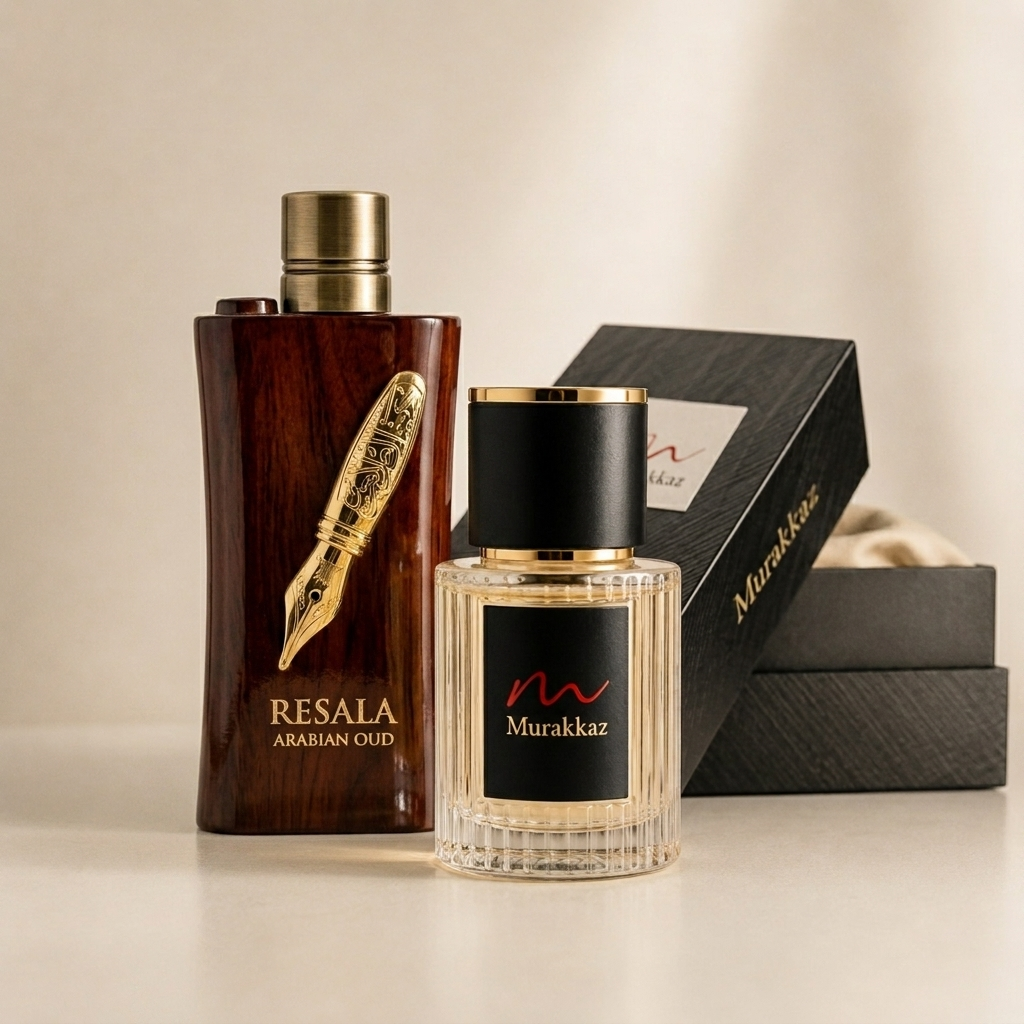
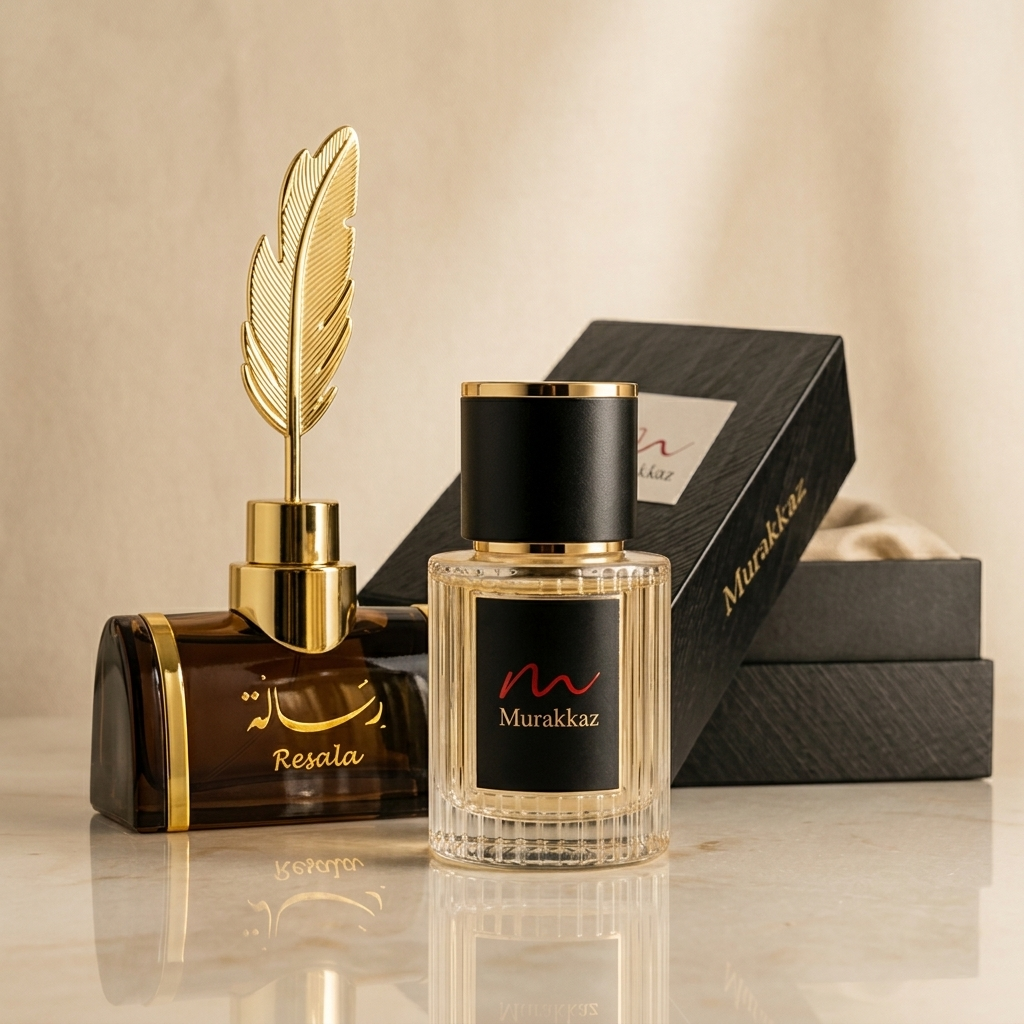
fix: update Resala product image paths to point to newly generated photo

diff --git a/App/src/app/data/products.ts b/App/src/app/data/products.ts
@@ -184,7 +184,7 @@ export const luxuryProducts: Product[] = [
     "priceVal": 300,
     "originalPriceVal": 400,
     "volume": "6ml - 50ml",
-    "image": "/images/products/resala_v2.jpg",
+    "image": "/images/products/resala.jpg",
     "family": "ORIENTAL",
     "gender": "UNISEX",
     "occasion": "Royalty & Special Occasions",
